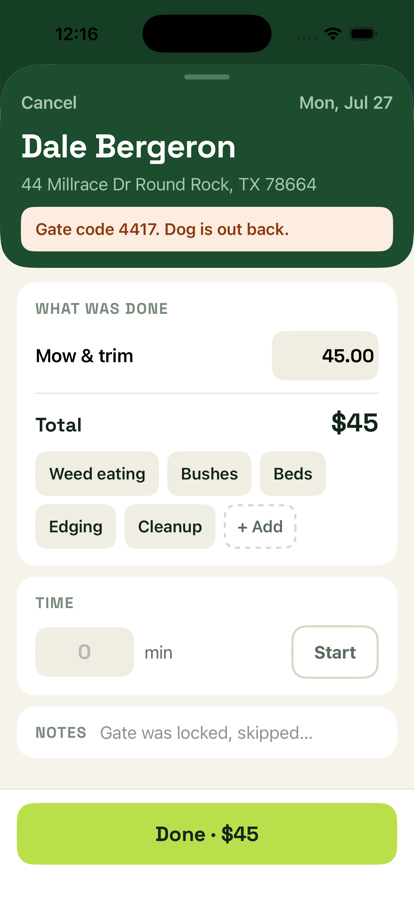
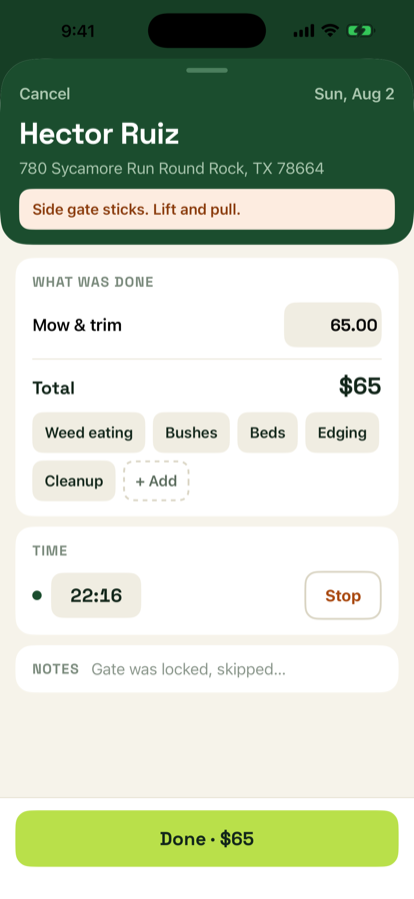
Guide: the seven ASC listing screenshots replace their starved originals
The listing screenshots delivered to ASC for 1.1 (pulled back down via the
API — today, schedule, crew, complete, money, quote, clients) show the
demo book at working-business scale: $955 weeks on one crew, $1,270-$1,555
weekly bars, net $150.40. The guide was still carrying the July captures
of the same screens — $445 weeks, net $51.33 — so the guide and the App
Store disagreed about what a week of this business looks like.

All seven resampled to the guide's 414-wide convention. Two captions
rewrote because they narrated the old pixels: today (timer chip, "Friday")
and schedule (a rain-reflow card the new capture doesn't show). Prose
references checked — no client names from either vintage appear in text.

Still on the old data: report.png and expenses.png (no ASC counterpart
was ever captured for those screens).

diff --git a/guide.html b/guide.html
@@ -96,8 +96,8 @@ out there.</p>
 <p>Gate codes and dog warnings sit right on the card, because that's when you need
 them.</p>
 </div>
-<figure><img src="guide/today.png" alt="Today tab"><figcaption>Two done, a timer running,
-and one stop left over from Friday.</figcaption></figure>
+<figure><img src="guide/today.png" alt="Today tab"><figcaption>Two done, two to go, and
+Thursday's leftover on top in orange.</figcaption></figure>
 </div>
 
 <h2 id="complete">3. Complete a job</h2>
@@ -154,8 +154,8 @@ It's a suggestion. You decide.</p>
 <p>Forecasts come from Apple Weather and need a signal to refresh, so grab the week before
 you drive out of range. Everything else on this screen works offline as always.</p>
 </div>
-<figure><img src="guide/schedule.png" alt="Schedule tab"><figcaption>Next week, with rain
-coming Tuesday and somewhere dry to put those two stops.</figcaption></figure>
+<figure><img src="guide/schedule.png" alt="Schedule tab"><figcaption>Sixteen stops and
+$955 on the board, each day under its own sky.</figcaption></figure>
 </div>
 
 <h2 id="texting">5. Text your clients</h2>
